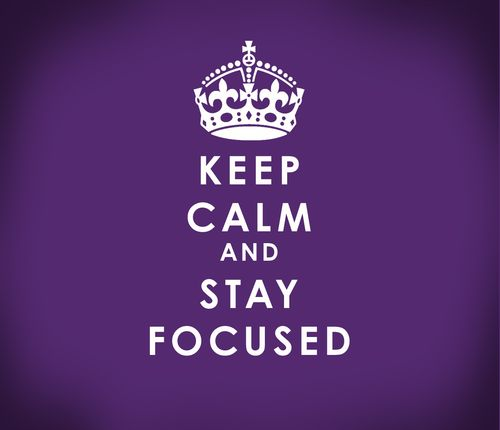
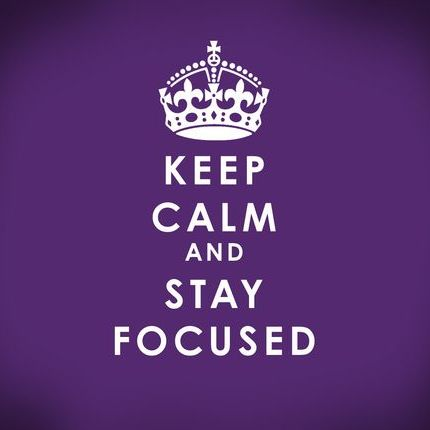
Fix spotlight images

diff --git a/_includes/spotlight.html b/_includes/spotlight.html
@@ -2,7 +2,7 @@
   	{% if my_page.style %}
 		<section id="{{ my_page.id }}" class="{{ my_page.style }}">
 			<div class="inner">
-				<a href="{{ my_page.url | prepend: site.baseurl }}" class="image"><img src="images/pic01.jpg" alt="" /></a>
+				<a href="{{ my_page.url | prepend: site.baseurl }}" class="image"><img src="{{ my_page.image | prepend: site.baseurl }}" alt="" /></a>
 				<div class="content">
 					<h2 class="major">{{ my_page.title }}</h2>
 					<p>{{ my_page.tagline }}</p>

diff --git a/1-Magna-arcu-feugiat.md b/1-Magna-arcu-feugiat.md
@@ -1,7 +1,7 @@
 ---
 layout: page
 title: Who is Spencer Healey?
-image: images/pic01.jpg
+image: /images/pic01.jpg
 style: wrapper spotlight style1
 id: one
 tagline: If I could go back 15 years and pay $1000/session for ADHD coaching, I would do it. I spent the first half of my life wasting time doing a thousand random things badly and never doing anything well. It was only after I had scrounged my way through a graduate degree that I found myself in an ADHD coaching office where my life completely changed.

diff --git a/2-Tempus-adipiscing.md b/2-Tempus-adipiscing.md
@@ -1,7 +1,7 @@
 ---
 layout: page
 title: What is ADHD Coaching?
-image: images/pic02.jpg
+image: /images/pic02.jpg
 style: wrapper alt spotlight style2
 id: two
 tagline: When I sit down to work, I immediately feel tired. I decide to make tea. I remember something interesting I wanted to read. I find myself watching a youtube video about investment or making a website for a friend. Focus is a limited resource. ADHD Coaching helped me to channel it and maximise my focus on the things that matter to me.
